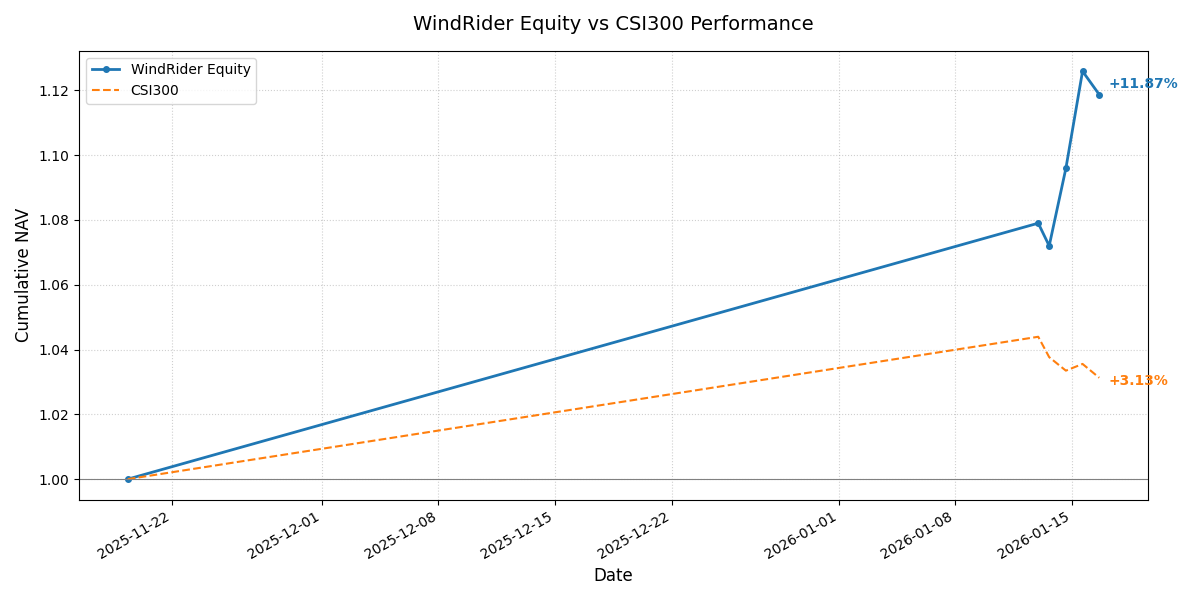
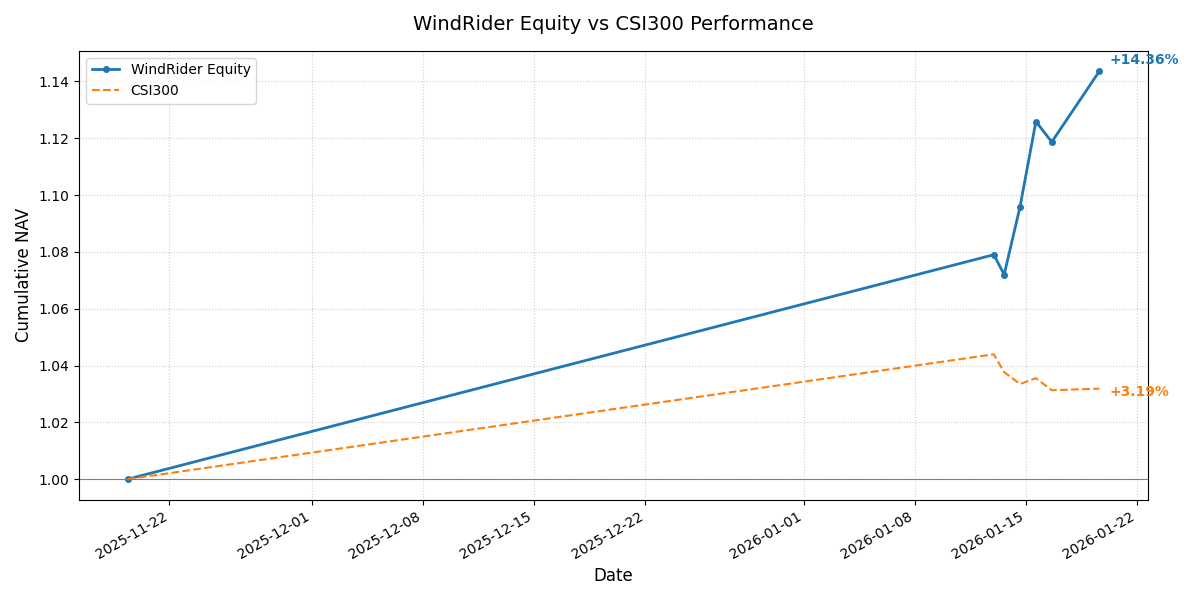
Updated Hugo site content

diff --git a/public/insights/reading-is-still-useful-after-all/index.html b/public/insights/reading-is-still-useful-after-all/index.html
@@ -9,7 +9,7 @@
 
 <meta name="viewport" content="width=device-width, initial-scale=1, shrink-to-fit=no">
 <meta name="robots" content="index, follow">
-<title>Reading Is Still Useful After All | Hankou</title>
+<title>Reading is Still Useful After All | Hankou</title>
 <meta name="keywords" content="">
 <meta name="description" content="At Guanshidun, three breakfast shops stood open, side by side.
 The &ldquo;Old Jar Pickled Cabbage Hot Dry Noodle Shop&rdquo; was the one right in the middle. The owner cooking the noodles was a young man wearing a disposable black mask. While boiling noodles, he chatted with the customers, asking if the property management of the used car market across the street had given them any trouble lately. The customers owned a stall in the market and came here for breakfast every day. The small speaker in the shop played a classic pop earworm from days gone by: &ldquo;Come, come, have a drink, don&rsquo;t stop until you&rsquo;re drunk&hellip; can&rsquo;t keep the hurried love by your side&hellip;&rdquo;">
@@ -62,7 +62,7 @@ The &ldquo;Old Jar Pickled Cabbage Hot Dry Noodle Shop&rdquo; was the one right 
     </style>
 </noscript><meta property="og:url" content="https://hankou.com/insights/reading-is-still-useful-after-all/">
   <meta property="og:site_name" content="Hankou">
-  <meta property="og:title" content="Reading Is Still Useful After All">
+  <meta property="og:title" content="Reading is Still Useful After All">
   <meta property="og:description" content="At Guanshidun, three breakfast shops stood open, side by side.
 The “Old Jar Pickled Cabbage Hot Dry Noodle Shop” was the one right in the middle. The owner cooking the noodles was a young man wearing a disposable black mask. While boiling noodles, he chatted with the customers, asking if the property management of the used car market across the street had given them any trouble lately. The customers owned a stall in the market and came here for breakfast every day. The small speaker in the shop played a classic pop earworm from days gone by: “Come, come, have a drink, don’t stop until you’re drunk… can’t keep the hurried love by your side…”">
   <meta property="og:locale" content="zh-cn">
@@ -71,7 +71,7 @@ The “Old Jar Pickled Cabbage Hot Dry Noodle Shop” was the one right in the m
     <meta property="article:published_time" content="2026-01-17T00:00:00+00:00">
     <meta property="article:modified_time" content="2026-01-17T00:00:00+00:00">
 <meta name="twitter:card" content="summary">
-<meta name="twitter:title" content="Reading Is Still Useful After All">
+<meta name="twitter:title" content="Reading is Still Useful After All">
 <meta name="twitter:description" content="At Guanshidun, three breakfast shops stood open, side by side.
 The &ldquo;Old Jar Pickled Cabbage Hot Dry Noodle Shop&rdquo; was the one right in the middle. The owner cooking the noodles was a young man wearing a disposable black mask. While boiling noodles, he chatted with the customers, asking if the property management of the used car market across the street had given them any trouble lately. The customers owned a stall in the market and came here for breakfast every day. The small speaker in the shop played a classic pop earworm from days gone by: &ldquo;Come, come, have a drink, don&rsquo;t stop until you&rsquo;re drunk&hellip; can&rsquo;t keep the hurried love by your side&hellip;&rdquo;">
 
@@ -90,7 +90,7 @@ The &ldquo;Old Jar Pickled Cabbage Hot Dry Noodle Shop&rdquo; was the one right 
     {
       "@type": "ListItem",
       "position":  2 ,
-      "name": "Reading Is Still Useful After All",
+      "name": "Reading is Still Useful After All",
       "item": "https://hankou.com/insights/reading-is-still-useful-after-all/"
     }
   ]
@@ -100,8 +100,8 @@ The &ldquo;Old Jar Pickled Cabbage Hot Dry Noodle Shop&rdquo; was the one right 
 {
   "@context": "https://schema.org",
   "@type": "BlogPosting",
-  "headline": "Reading Is Still Useful After All",
-  "name": "Reading Is Still Useful After All",
+  "headline": "Reading is Still Useful After All",
+  "name": "Reading is Still Useful After All",
   "description": "At Guanshidun, three breakfast shops stood open, side by side.\nThe \u0026ldquo;Old Jar Pickled Cabbage Hot Dry Noodle Shop\u0026rdquo; was the one right in the middle. The owner cooking the noodles was a young man wearing a disposable black mask. While boiling noodles, he chatted with the customers, asking if the property management of the used car market across the street had given them any trouble lately. The customers owned a stall in the market and came here for breakfast every day. The small speaker in the shop played a classic pop earworm from days gone by: \u0026ldquo;Come, come, have a drink, don\u0026rsquo;t stop until you\u0026rsquo;re drunk\u0026hellip; can\u0026rsquo;t keep the hurried love by your side\u0026hellip;\u0026rdquo;\n",
   "keywords": [
     
@@ -193,7 +193,7 @@ The &ldquo;Old Jar Pickled Cabbage Hot Dry Noodle Shop&rdquo; was the one right 
   <header class="post-header">
     
     <h1 class="post-title entry-hint-parent">
-      Reading Is Still Useful After All
+      Reading is Still Useful After All
     </h1>
     <div class="post-meta"><span title='2026-01-17 00:00:00 +0000 UTC'>January 17, 2026</span>&nbsp;·&nbsp;<span>Acj</span>
 

diff --git a/public/index.html b/public/index.html
@@ -158,7 +158,7 @@
 
 <article class="post-entry"> 
   <header class="entry-header">
-    <h2 class="entry-hint-parent">Reading Is Still Useful After All
+    <h2 class="entry-hint-parent">Reading is Still Useful After All
     </h2>
   </header>
   <div class="entry-content">
@@ -167,7 +167,7 @@ The “Old Jar Pickled Cabbage Hot Dry Noodle Shop” was the one right in the m
 ...</p>
   </div>
   <footer class="entry-footer"><span title='2026-01-17 00:00:00 +0000 UTC'>January 17, 2026</span>&nbsp;·&nbsp;<span>Acj</span></footer>
-  <a class="entry-link" aria-label="post link to Reading Is Still Useful After All" href="https://hankou.com/insights/reading-is-still-useful-after-all/"></a>
+  <a class="entry-link" aria-label="post link to Reading is Still Useful After All" href="https://hankou.com/insights/reading-is-still-useful-after-all/"></a>
 </article>
 
 <article class="post-entry"> 

diff --git a/public/insights/index.html b/public/insights/index.html
@@ -151,7 +151,7 @@
 
 <article class="post-entry"> 
   <header class="entry-header">
-    <h2 class="entry-hint-parent">Reading Is Still Useful After All
+    <h2 class="entry-hint-parent">Reading is Still Useful After All
     </h2>
   </header>
   <div class="entry-content">
@@ -160,7 +160,7 @@ The “Old Jar Pickled Cabbage Hot Dry Noodle Shop” was the one right in the m
 ...</p>
   </div>
   <footer class="entry-footer"><span title='2026-01-17 00:00:00 +0000 UTC'>January 17, 2026</span>&nbsp;·&nbsp;<span>Acj</span></footer>
-  <a class="entry-link" aria-label="post link to Reading Is Still Useful After All" href="https://hankou.com/insights/reading-is-still-useful-after-all/"></a>
+  <a class="entry-link" aria-label="post link to Reading is Still Useful After All" href="https://hankou.com/insights/reading-is-still-useful-after-all/"></a>
 </article>
 
 <article class="post-entry"> 

diff --git a/public/archives/index.html b/public/archives/index.html
@@ -190,10 +190,10 @@
     </h3>
     <div class="archive-posts">
       <div class="archive-entry">
-        <h3 class="archive-entry-title entry-hint-parent">Reading Is Still Useful After All
+        <h3 class="archive-entry-title entry-hint-parent">Reading is Still Useful After All
         </h3>
         <div class="archive-meta"><span title='2026-01-17 00:00:00 +0000 UTC'>January 17, 2026</span>&nbsp;·&nbsp;<span>Acj</span></div>
-        <a class="entry-link" aria-label="post link to Reading Is Still Useful After All" href="https://hankou.com/insights/reading-is-still-useful-after-all/"></a>
+        <a class="entry-link" aria-label="post link to Reading is Still Useful After All" href="https://hankou.com/insights/reading-is-still-useful-after-all/"></a>
       </div>
     </div>
   </div>

diff --git a/public/insights/return-to-the-fields-of-hope/index.html b/public/insights/return-to-the-fields-of-hope/index.html
@@ -231,7 +231,7 @@ The baritone, puffing out his slightly portly frame, controlled his vocal cords 
   <a class="prev" href="https://hankou.com/insights/reading-is-still-useful-after-all/">
     <span class="title">« </span>
     <br>
-    <span>Reading Is Still Useful After All</span>
+    <span>Reading is Still Useful After All</span>
   </a>
   <a class="next" href="https://hankou.com/insights/its-not-leanness-its-laxity/">
     <span class="title"> »</span>

diff --git a/content/investment/position.md b/content/investment/position.md
@@ -1,8 +1,8 @@
 +++
 title = "持仓 Position"
 summary = "主动管理型股票组合。对标沪深300指数，采用基本面选股策略。"
-date = 2026-01-16T15:11:28+08:00
-lastmod = 2026-01-16T15:11:28+08:00
+date = 2026-01-19T15:11:08+08:00
+lastmod = 2026-01-19T15:11:08+08:00
 draft = false
 description = "WindRider Stock Portfolio"
 +++
@@ -12,30 +12,30 @@ description = "WindRider Stock Portfolio"
 
 ### 风舵股票组合 &nbsp;&nbsp;<span style="color: #E63946; font-weight: bold;">/</span><span style="color: #F1A73E; font-weight: bold;">/</span><span style="color: #000091; font-weight: bold;">/</span>&nbsp;&nbsp; 每日持仓
 WindRider Equity Portfolio <br>
-净值简报 <small>(截至: 2026-01-16)</small>
+净值简报 <small>(截至: 2026-01-19)</small>
 
 |  |  |
 | :--- | :--- |
 | **指数代码：** | WDR.EQ |
 | **成立日期：** | 2025-11-19 |
-| **最新净值：** | 1.1187 |
-| **今日涨跌：** | -0.64% |
+| **最新净值：** | 1.1436 |
+| **今日涨跌：** | +2.23% |
 
 ===========================
 
 | 核心表现 | |
 | :--- | :--- |
-| **累计收益：** | +11.87% |
-| **年化收益：** | +102.56% |
+| **累计收益：** | +14.36% |
+| **年化收益：** | +123.20% |
 | **最大回撤：** | -0.65% |
-| **基准点位：** | 4731.87 (CSI300) |
+| **基准点位：** | 4734.46 (CSI300) |
 | **策略状态：** | 运行中 |
 
 ### 持仓明细
 | 股票名称 | 成本价 | 现价 | 盈亏 | 占比 |
 | :--- | :--- | :--- | :--- | :--- | :--- |
-| 先导智能 <small>300450</small> | 49.41 | 60.40 | <span style="color:#E63946">+22.24%</span> | 53.32% |
-| 新 和 成 <small>002001</small> | 24.77 | 25.29 | <span style="color:#E63946">+2.09%</span> | 44.65% |
+| 先导智能 <small>300450</small> | 49.41 | 60.28 | <span style="color:#E63946">+21.99%</span> | 52.06% |
+| 新 和 成 <small>002001</small> | 24.77 | 26.61 | <span style="color:#E63946">+7.42%</span> | 45.96% |
 
 <br>
 
